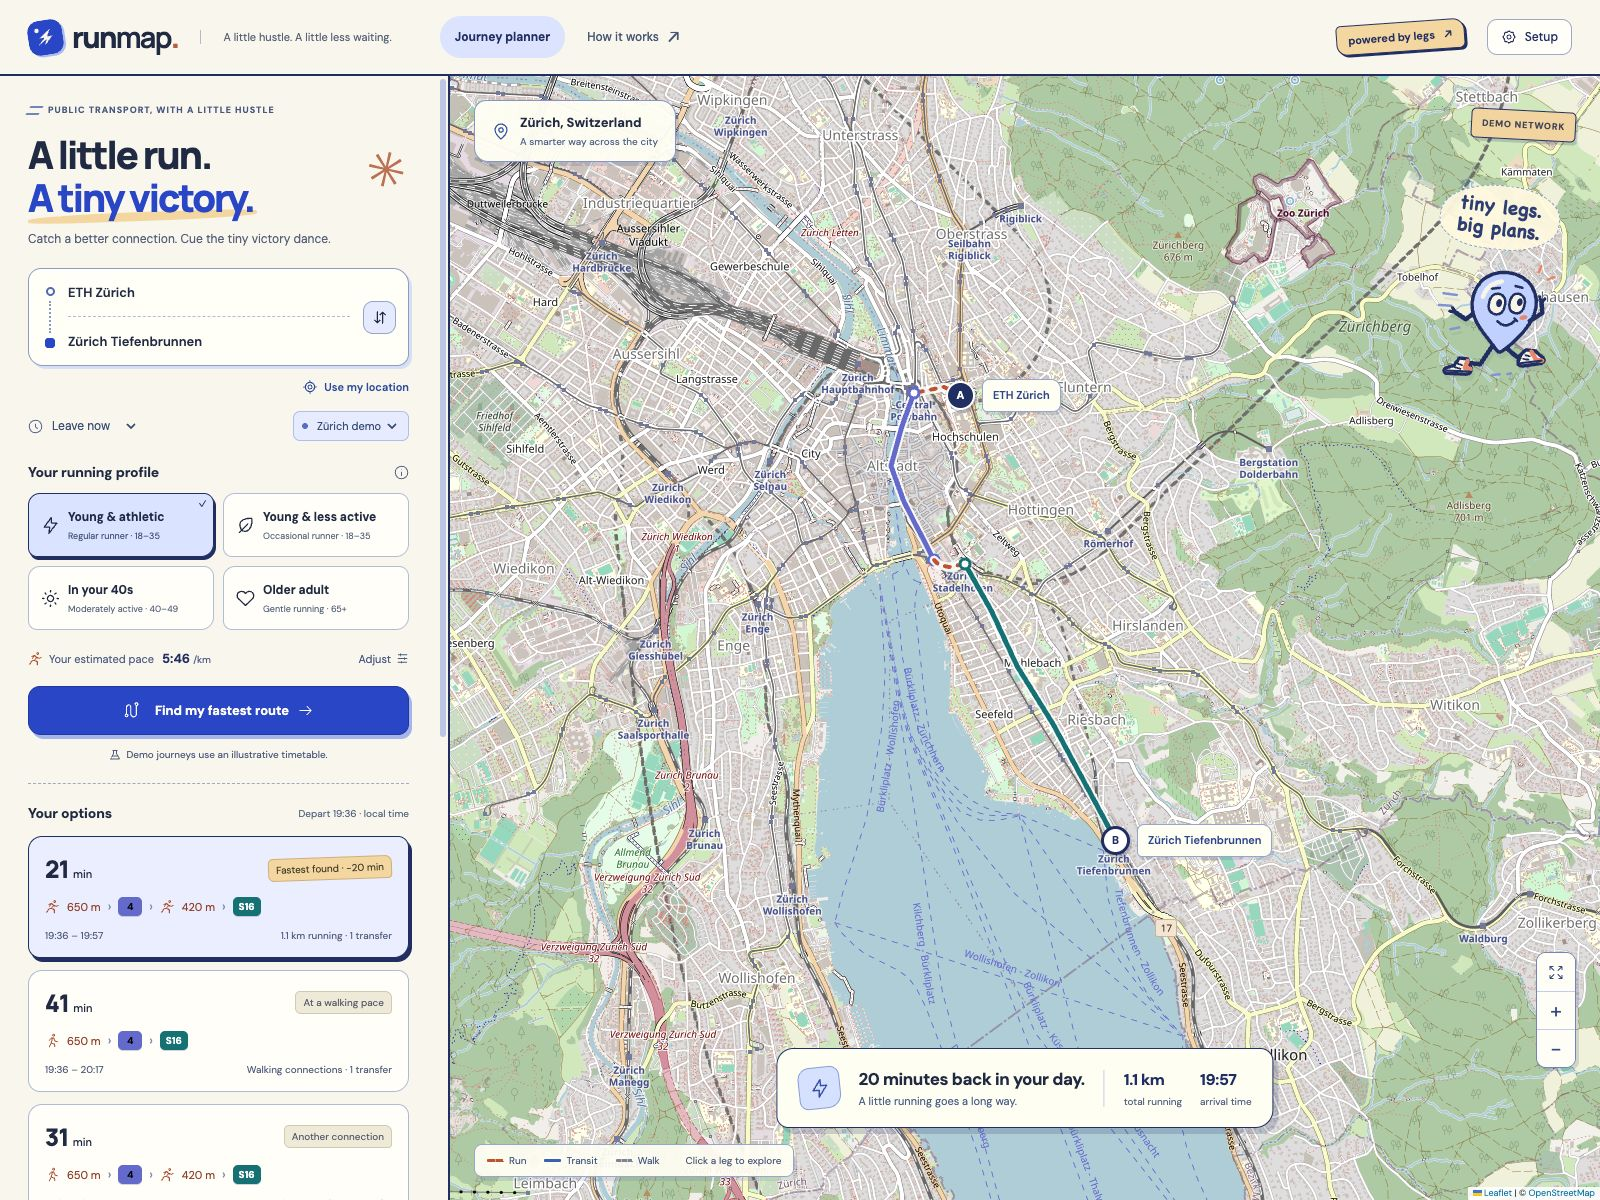
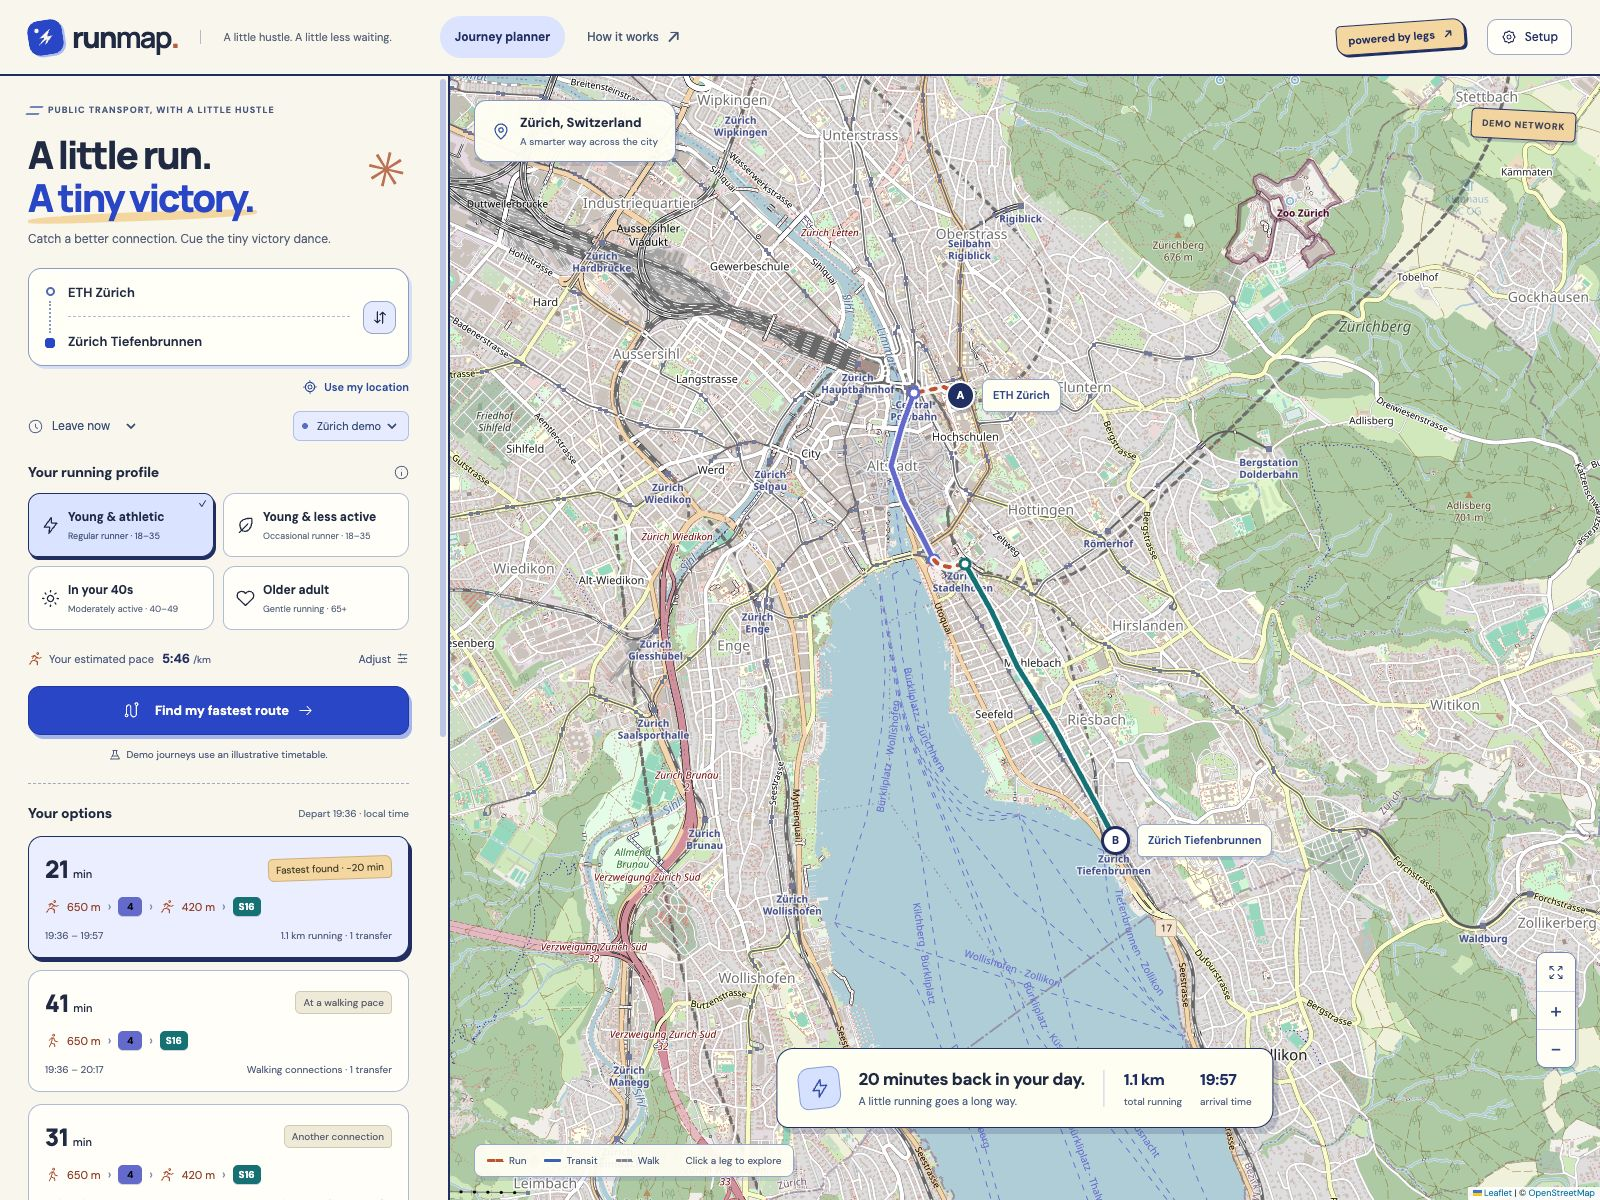
Remove map mascot and refresh README screenshot

Changed region(s): [[0.9062, 0.1542, 0.9688, 0.3083]]

diff --git a/runorwalk/static/playful.css b/runorwalk/static/playful.css
@@ -106,9 +106,6 @@ h2 { font-size: 14px; font-weight: 750; }
 .map-location span { font-size: 10px; color: #5a6d95; }
 .map-location > .icon { color: #3f5fae; }
 .demo-badge { border: 1.5px solid var(--forest); background: #f4d9aa; border-radius: 5px; color: #4a4e61; box-shadow: 2px 3px 0 #24346d33; font-weight: 750; letter-spacing: .8px; transform: rotate(3deg); padding: 8px 10px; font-size: 9px; }
-.map-buddy { position: absolute; z-index: 450; top: 109px; right: 25px; width: 150px; pointer-events: none; display: flex; flex-direction: column; align-items: center; }
-.map-buddy img { width: 144px; height: 144px; filter: drop-shadow(2px 5px 0 #24346d12); }
-.buddy-note { font-family: 'Chalkboard SE', 'Comic Sans MS', cursive; font-size: 19px; font-weight: 600; line-height: 1.15; color: #34477d; transform: rotate(7deg); text-align: center; padding: 9px 17px 10px; border-radius: 52% 43% 47% 39%; background: #fff9e4ed; border: 1px dashed #9aa9ce; }
 .map-tools { right: 24px; bottom: 132px; border: 1.5px solid #7e90be; box-shadow: 3px 3px 0 #24346d26; border-radius: 10px; }
 .map-tools button { color: #3a528e; background: #fffef7; width: 38px; height: 38px; }
 .map-tools button + button { border-top-color: #c8d2eb; }
@@ -127,7 +124,6 @@ h2 { font-size: 14px; font-weight: 750; }
 .map-unavailable { background: #efeff6; }
 .map-unavailable p { color: #58678b; }
 #map-setup { font-size: 12px; }
-#map-unavailable:not([hidden]) ~ .map-buddy { display: none; }
 dialog { background: var(--paper); border: 2px solid var(--forest); border-radius: 18px 14px 22px 16px; box-shadow: 7px 8px 0 #24346d55; }
 dialog p, dialog li, dialog th { color: #56658b; }
 .icon-button { color: #3f59a0; background: #e1e8ff; }
@@ -172,9 +168,6 @@ dialog pre { background: #edf1fb; }
   .profile { padding: 12px 9px; gap: 6px; }
   .profile strong { font-size: 10px; }
   .profile small { font-size: 8px; }
-  .map-buddy { width: 110px; right: 14px; top: 112px; }
-  .map-buddy img { width: 110px; height: 110px; }
-  .buddy-note { font-size: 15px; }
   .map-summary { min-width: 0; width: max-content; max-width: calc(100% - 110px); padding: 14px; gap: 11px; }
   .summary-copy strong { font-size: 14px; }
   .summary-copy span { font-size: 10px; }
@@ -206,9 +199,6 @@ dialog pre { background: #edf1fb; }
   .map-location { padding: 9px 12px; gap: 7px; }
   .map-location strong { font-size: 11px; }
   .map-location span { font-size: 9px; }
-  .map-buddy { top: 66px; right: 8px; width: 81px; }
-  .map-buddy img { width: 81px; height: 81px; }
-  .buddy-note { display: none; }
   .map-tools { right: 14px; bottom: 118px; }
   .map-tools button { width: 30px; height: 30px; }
   .map-summary { bottom: 44px; max-width: calc(100% - 28px); width: calc(100% - 28px); padding: 11px 12px; gap: 10px; border-radius: 13px 10px 14px 11px; box-shadow: 3px 4px 0 #24346d28; }

diff --git a/runorwalk/static/index.html b/runorwalk/static/index.html
@@ -74,7 +74,6 @@
       <div id="map"></div>
       <div id="map-unavailable" class="map-unavailable" hidden><span data-icon="map"></span><h2>Connect your Google map</h2><p>Add a browser API key to see live routes here.</p><button class="setup-button" id="map-setup">View setup</button></div>
       <div class="map-heading"><div class="map-location"><span data-icon="pin"></span><div><strong id="map-city">Zürich, Switzerland</strong><span id="map-subtitle">A smarter way across the city</span></div></div><span class="demo-badge" id="map-badge">DEMO NETWORK</span></div>
-      <div class="map-buddy" aria-hidden="true"><span class="buddy-note">tiny legs.<br>big plans.</span><img src="/route-buddy.svg" alt="" width="144" height="144"></div>
       <div class="map-tools"><button id="fit-map" aria-label="Fit journey on map" title="Fit journey"><span data-icon="expand"></span></button><button id="zoom-in" aria-label="Zoom in">+</button><button id="zoom-out" aria-label="Zoom out">−</button></div>
       <div class="map-toast" id="map-toast" hidden></div>
       <div class="map-summary" id="map-summary" hidden></div>

diff --git a/README.md b/README.md
@@ -2,7 +2,7 @@
 
 A local transit planner that treats walking connections as opportunities to run. Compare walking and running itineraries, see route lines on an interactive map, and follow every access leg, wait, vehicle and transfer.
 
-[![RunMap's playful blue-and-cream desktop planner with running profiles, route comparisons, a Zürich map and a running map-pin mascot](docs/images/runmap-demo.jpg)](docs/images/runmap-demo.jpg)
+[![RunMap's playful blue-and-cream desktop planner with running profiles, route comparisons and a Zürich map](docs/images/runmap-demo.jpg)](docs/images/runmap-demo.jpg)
 
 *Illustrative Zürich demo with synthetic routes and timetables. Click the picture to view it at full resolution (1600 × 1200).*
 
